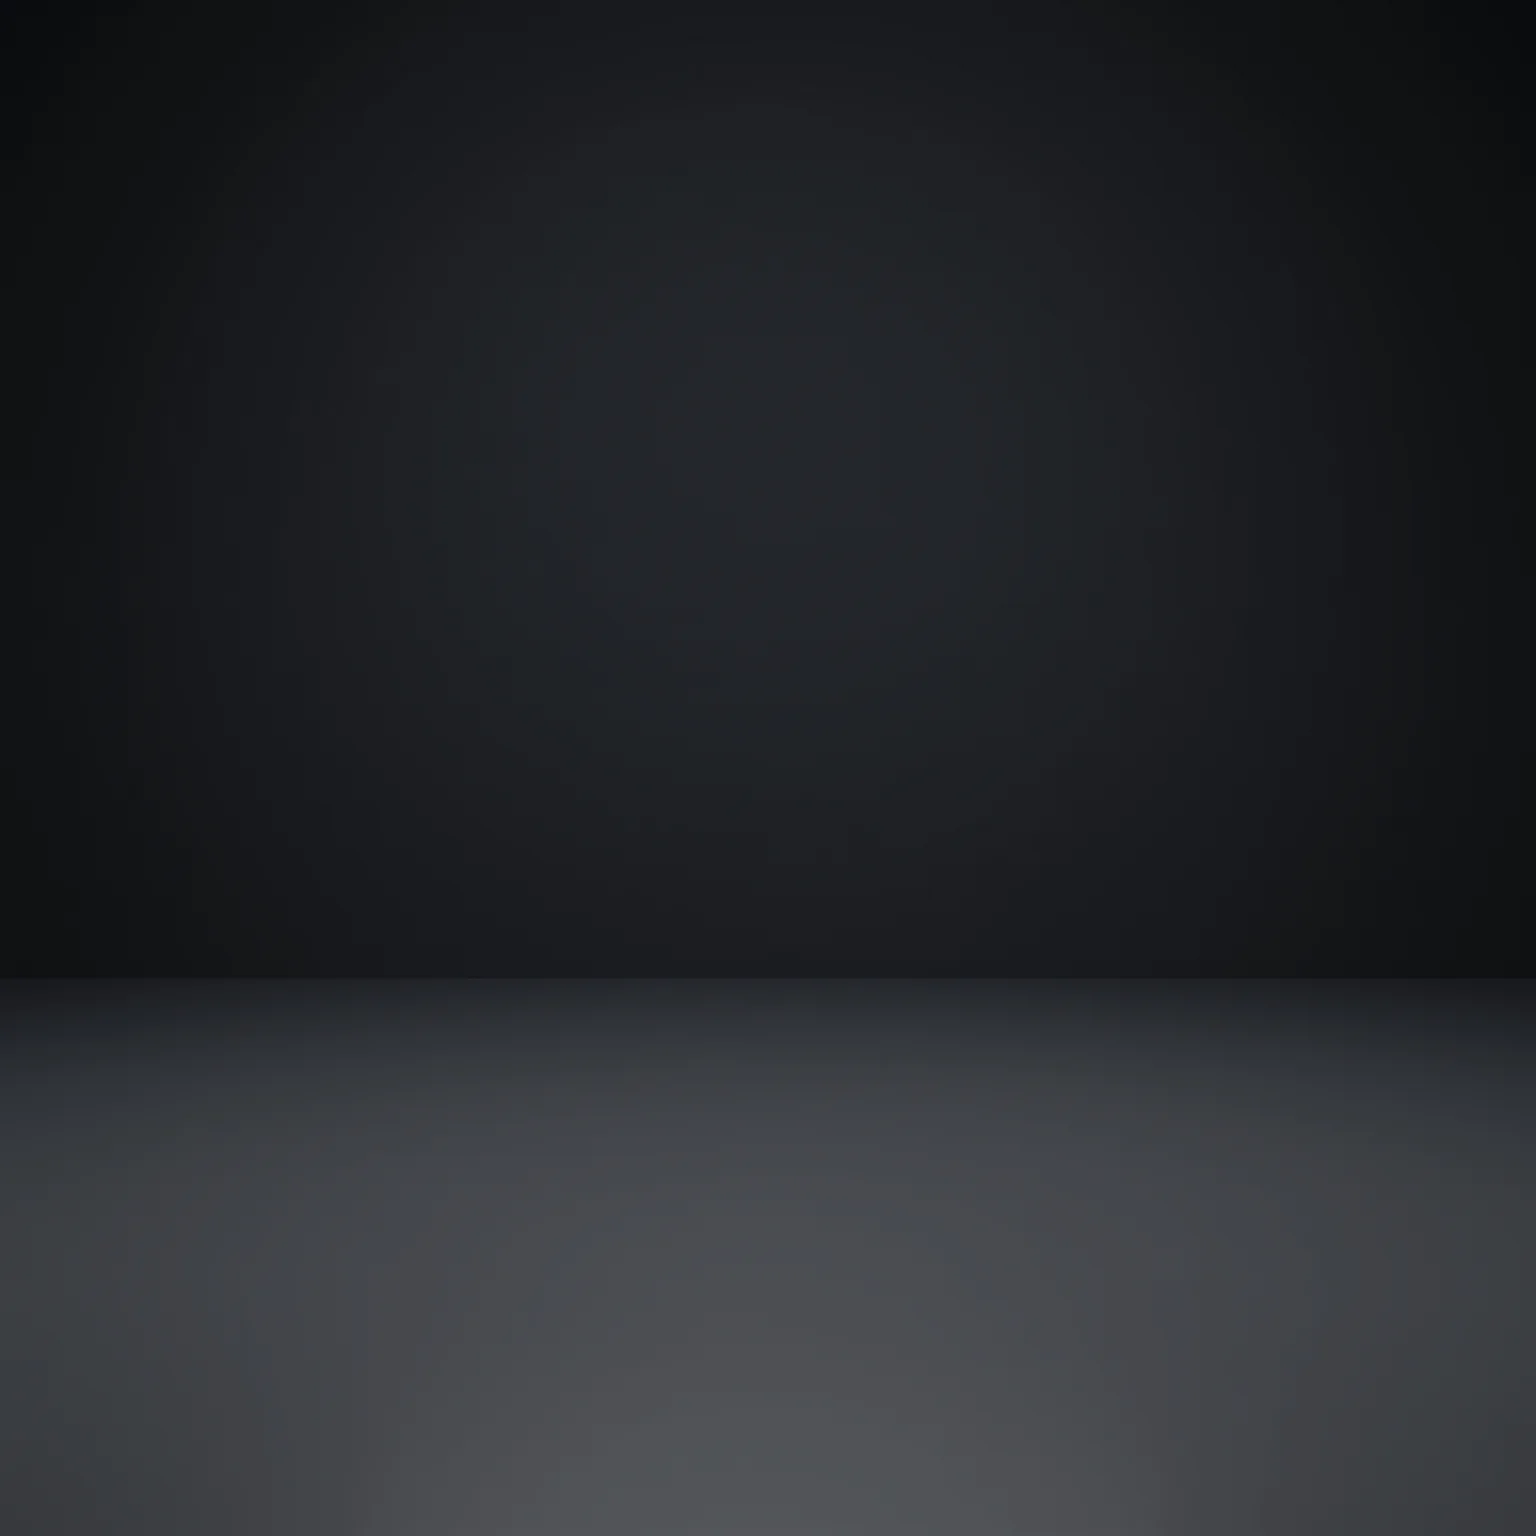
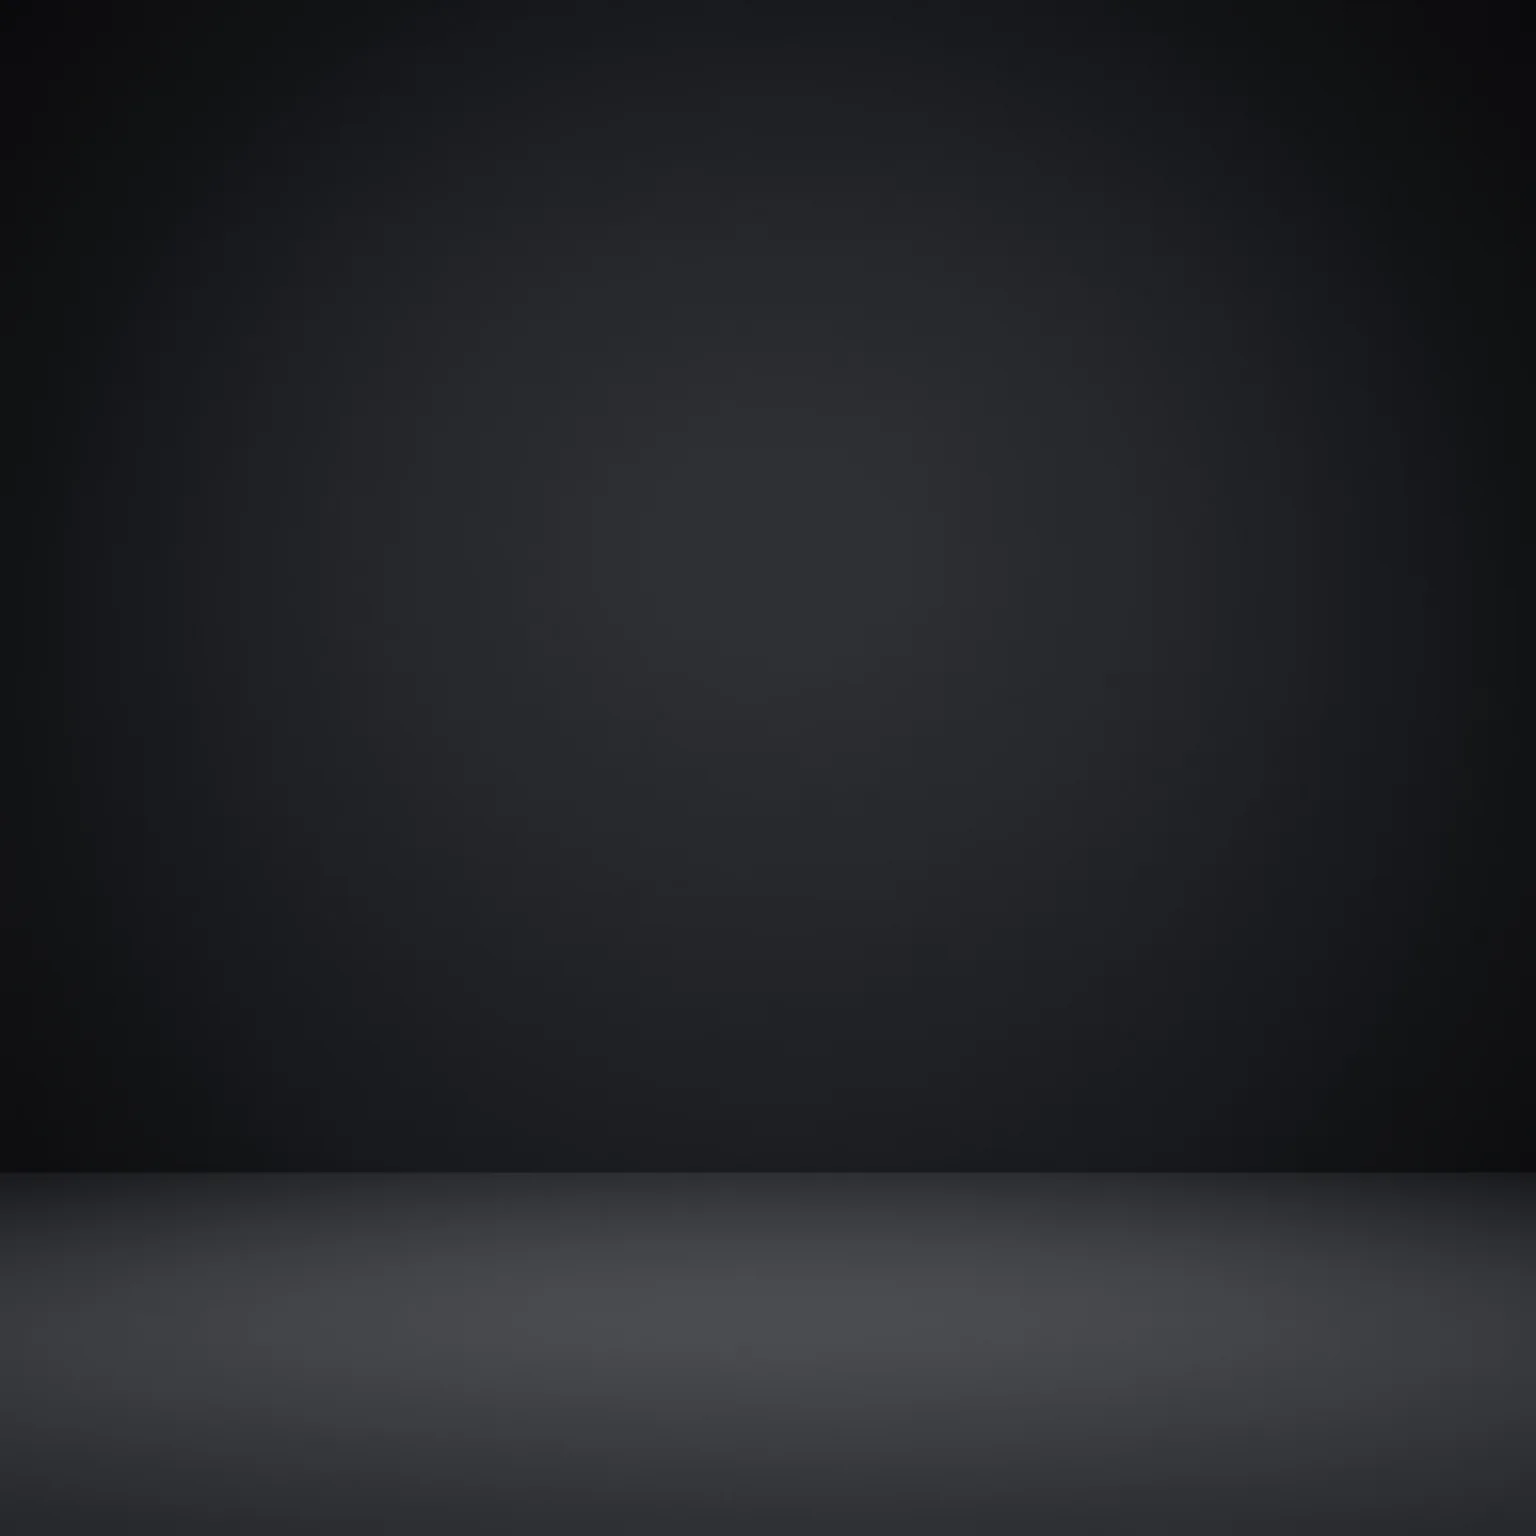
fix(today): the room is the whole screen, and its floor is low
TWO THINGS THE RIDER KEPT POINTING AT, and they were the same thing.

THE HARD CUT. The stage was one band in a column, so its floor stopped at the
readiness panel and the picture cut into flat black — a seam across the middle
of the screen. The stage is full-bleed now and the status bar and the panel
float over it, so the room runs to every edge.

THE BIKE SAT TOO HIGH, because its floor line was measured against the leftover
space ABOVE a panel rather than against the screen. Measured against the whole
screen, and with the plate re-rendered so its horizon is LOW — 76% rather than
64% — the machine sits down at the bottom where the reference sets put it, with
a shallow band of floor under it instead of a third of the screen standing
empty.

Both numbers are measured off the plate, not chosen: the row where mean
brightness jumps, 1171 of 1536.

Claude-Session: https://claude.ai/code/session_01MmDDG7pHMU8MRJcYTCwsut

Changed region(s): [[0.0, 0.6562, 1.0, 0.8125], [0.1875, 0.9375, 0.7812, 1.0]]

diff --git a/frontend/src/editorial/w3/W3TodayStage.tsx b/frontend/src/editorial/w3/W3TodayStage.tsx
@@ -46,7 +46,7 @@ import { W3CoachFab } from './W3CoachChat'
  *
  * MEASURED, NOT GUESSED. `stage-studio.webp` is a graphic set — a flat wall
  * meeting a flat floor — and the row where its mean brightness jumps IS the
- * horizon: 978 of 1536 px, 63.7%. Every attempt before this one placed the bike
+ * horizon: 1171 of 1536 px, 76.2%. Every attempt before this one placed the bike
  * by eye and it floated, because the plate was `cover`-cropped and its horizon
  * moved with the viewport. The plate is stretched to the stage now, which a
  * flat two-plane gradient takes without showing it, so this number holds on
@@ -55,7 +55,7 @@ import { W3CoachFab } from './W3CoachChat'
  * Re-measure if the plate is ever re-rendered: the row of the largest jump in
  * mean brightness, divided by the height.
  */
-const FLOOR = 0.637
+const FLOOR = 0.762
 
 const AVATAR = 130
 const GLOW = 178
@@ -204,7 +204,12 @@ function DiscChip({ icon, value }: { icon: React.ReactNode; value: string }) {
   )
 }
 
-export default function W3TodayStage({ vm }: { vm: W3StageVm }) {
+export default function W3TodayStage({ vm, fullBleed = false }: {
+  vm: W3StageVm
+  /** Fill the whole first screen and let the panel float over the floor,
+   *  rather than occupying one band of a column above it. */
+  fullBleed?: boolean
+}) {
   const reduce = useReducedMotion()
 
   // A RENDERED ROOM, NOT A GRADIENT. The floor was four stops of near-black,
@@ -219,7 +224,11 @@ export default function W3TodayStage({ vm }: { vm: W3StageVm }) {
   const floor = `linear-gradient(180deg, ${T.heroFloor[0]} 0%, ${T.heroFloor[1]} 40%, ${T.heroFloor[2]} 76%, ${T.heroFloor[3]} 100%)`
 
   return (
-    <div style={{
+    <div style={fullBleed ? {
+      position: 'absolute', inset: 0, overflow: 'hidden', background: floor,
+      fontFamily: FONT, display: 'flex', flexDirection: 'column', alignItems: 'center',
+      paddingTop: 44,
+    } : {
       position: 'relative', width: '100%', flex: '1 1 auto', minHeight: 0,
       overflow: 'hidden', background: floor, fontFamily: FONT,
       display: 'flex', flexDirection: 'column', alignItems: 'center',
@@ -383,9 +392,14 @@ export default function W3TodayStage({ vm }: { vm: W3StageVm }) {
               // NO FIXED HEIGHT. A height here re-introduced the original bug
               // one level down: `contain` inside a 52%-tall box is limited by
               // the HEIGHT again, so the bike drew at ~45% of the width with
-              // floor either side. The wrapper now takes the height its picture
+              // floor either side. The wrapper takes the height its picture
               // needs, and the picture is sized by WIDTH — the one dimension
               // this screen actually has to fill.
+              //
+              // The plate's horizon sits at 76% now (it was 64%, which left a
+              // third of the screen as empty floor and pushed the machine up
+              // into the block pill). Low horizon, shallow floor band: the way
+              // the reference sets are shot.
               display: 'flex', alignItems: 'flex-end', justifyContent: 'center',
             }}>
               {/* ONE SHADOW PER TYRE. A single ellipse under the whole bike is a

diff --git a/frontend/src/editorial/w3/W3TodayView.tsx b/frontend/src/editorial/w3/W3TodayView.tsx
@@ -223,13 +223,23 @@ export default function W3TodayView({ vm, onAdapt }: {
              Sized to the viewport MINUS the fixed tab bar, so the dock lands
              exactly above it the way it does in the pen, on any device height
              rather than only at 844. ── */}
+        {/* THE ROOM IS THE WHOLE SCREEN.
+            The stage used to be one band in a column, so its floor stopped at
+            the readiness panel and the picture cut hard into flat black — the
+            seam the rider kept pointing at. The stage is absolute and full
+            bleed now; the status bar and the panel float over it. That is also
+            what puts the bike properly low: its floor line is measured against
+            the whole screen instead of against the leftover space above a
+            panel. */}
         <div style={{
+          position: 'relative',
           height: 'calc(100dvh - 92px - env(safe-area-inset-bottom))',
           display: 'flex', flexDirection: 'column', background: T.heroBg,
         }}>
           <W3StatusBar />
 
           <W3TodayStage
+            fullBleed
             vm={{
               handle: vm.handle,
               role: vm.tierLine,
@@ -254,7 +264,10 @@ export default function W3TodayView({ vm, onAdapt }: {
               nothing under it, so the first screen ended on a hard edge and gave
               no sign that anything followed. The extra air is also the room the
               scroll cue needs. */}
-          <div style={{ padding: '16px 16px 28px', flex: 'none' }}>
+          <div style={{
+            position: 'relative', zIndex: 2, marginTop: 'auto',
+            padding: '16px 16px 28px', flex: 'none',
+          }}>
             <W3TodayDock
               vm={{
                 score: vm.readiness,

diff --git a/backend/scripts/generate_starter_art.py b/backend/scripts/generate_starter_art.py
@@ -90,8 +90,9 @@ def _prompts() -> dict[str, str]:
             # everything in focus, one honest shadow under the wheels. The look
             # is a product photograph of a toy, not a mood.
             "A clean, sharp, graphic studio set, rendered in perfect focus: one flat seamless wall "
-            "meeting one flat floor at a clean horizontal line about two thirds of the way down "
-            "the frame.\n\n"
+            "meeting one flat floor at a clean horizontal line LOW in the frame — about four fifths "
+            "of the way down, so the wall fills most of the picture and the floor is a shallow "
+            "band along the bottom, exactly as a product set is shot.\n\n"
             "There is NOTHING in the room — no objects, no props, no people, no text, no pattern.\n"
             "COLOUR: deep charcoal, near-black at the top of the wall and lifting very slightly "
             "toward the horizon; the floor a touch lighter than the wall so the two planes read "
